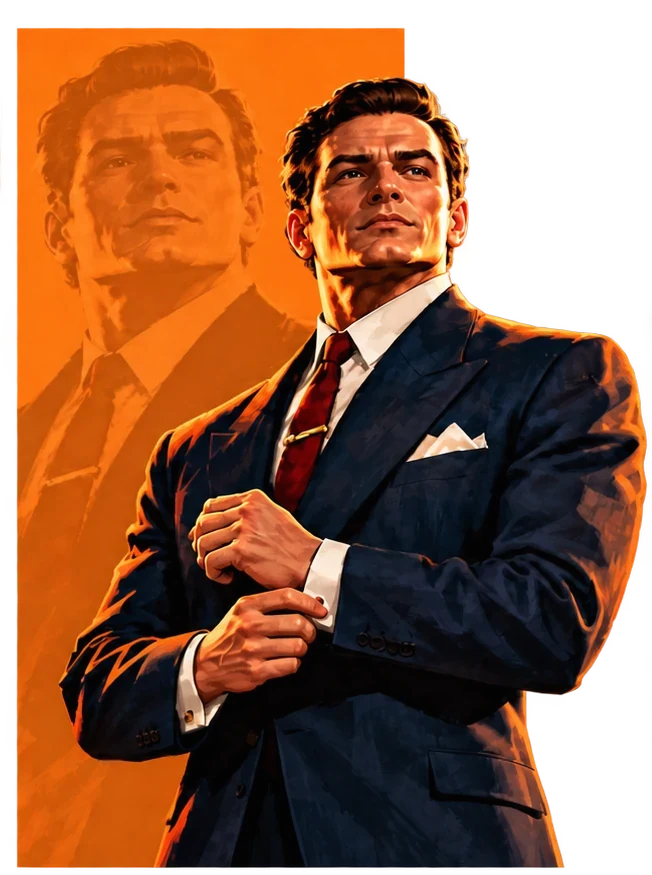
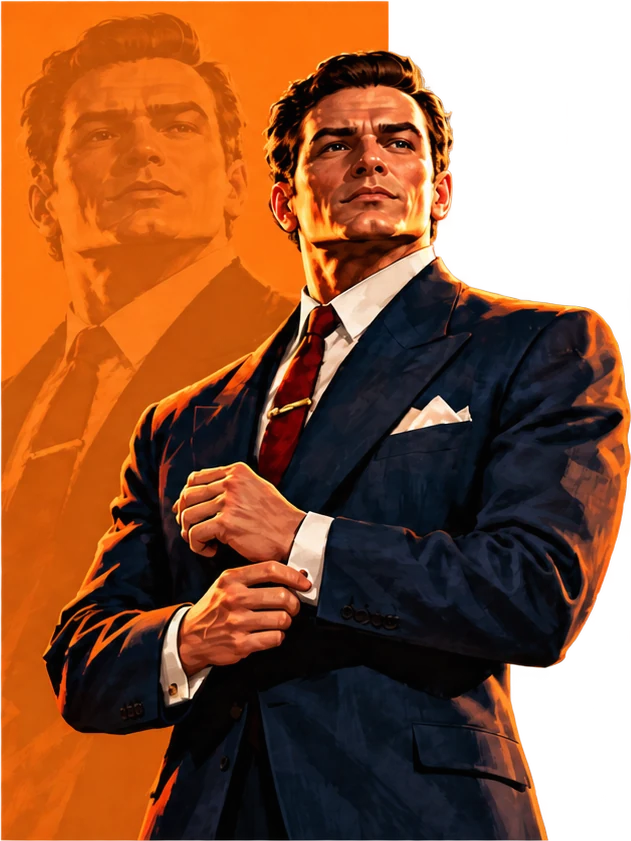
UI-3: whole heroes on the stage floor, centred thumbs, paper phone sheet, readable quests
- Re-sliced hero-anne/james from the owner's transparent cards. Anne's
  elbow is no longer cut off, the UI text is masked out, and both are
  trimmed to the art's true bottom and anchored to the stage floor.
- Thumbs re-cut as squares centred on each face, over the flat colour bar.
- Phones: the Economy sheet (Black Market, Plant, quests) is paper with
  ink tabs, like the desktop drawer, so there is no ink text on dark.
- Quests: ink text and a dark-green progress line on paper (they were
  hardcoded light greys).

diff --git a/src/game/theme-poster-hud.css b/src/game/theme-poster-hud.css
@@ -282,3 +282,47 @@
 :is(#iso-battle-howto, #iso-tutorial) .tut-fig * { color: inherit; }
 :is(#iso-battle-howto, #iso-tutorial) .tut-chain-node { padding: 10px 14px; font-size: 14px !important; }
 :is(#iso-battle-howto, #iso-tutorial) .tut-nav .big-btn { font-size: 16px !important; }
+
+/* ── quests on paper: readable ink, not the old light-on-dark greys ─ */
+.ui-root .aside.right .pane .quest { border-radius: 0; background: transparent; border: 0; border-bottom: 1px solid #111b202c; }
+.ui-root .aside.right .pane .quest .q-who { color: #d1640e; font: 700 13px var(--px-display); letter-spacing: .12em; text-transform: uppercase; }
+.ui-root .aside.right .pane .quest .q-text { color: #182126; font: 500 15px/1.35 var(--px-body); }
+.ui-root .aside.right .pane .quest .q-prog { color: #2f7d4a; font-weight: 700; }
+.ui-root .aside.right .pane .quest .q-reward { color: #182126; }
+.ui-root .aside.right .pane .quest button { border-radius: 0; }
+
+/* ── phones: the Economy sheet is paper too (owner: mobile colours) ── */
+@media (max-width: 760px) {
+  .ui-root #iso-aside-right { background: #f0e6d1 !important; border-top: 4px solid #ef7c17; }
+  .ui-root #iso-aside-right > #iso-trade.panel,
+  .ui-root #iso-aside-right > .plant-card {
+    background: #f0e6d1 !important; border: 0 !important; border-radius: 0; box-shadow: none; color: #182126;
+  }
+  .ui-root #iso-aside-right > .plant-card { border-top: 2px solid #11191d !important; margin: 0; }
+  .ui-root #iso-aside-right .panel-title {
+    color: #d1640e !important; border-color: #111b202c !important; text-shadow: none;
+    font: 700 13px var(--px-display) !important; letter-spacing: .15em !important;
+  }
+  .ui-root #iso-aside-right .panel-title::before { content: none; display: none; }
+  .ui-root #iso-aside-right .tabs { background: #121b20; }
+  .ui-root #iso-aside-right .tab { border-radius: 0; color: #e4d4bc; font: 700 12px var(--px-display) !important; letter-spacing: .06em; text-transform: uppercase; }
+  .ui-root #iso-aside-right .tab.active { background: #efebe0; color: #171f20; }
+  .ui-root #iso-aside-right .pane { background: transparent; color: #182126; }
+}
+.ui-root #iso-aside-right > .plant-card {
+  --txt: #172126; --txt-dim: #3d474a; --txt-mute: #6c665b;
+  --line: #b9a987; --line-hi: #8e7f66; --brass: #e46b0e; --brass-hi: #b94c04;
+  --sa-bone: #172126; --sa-bone-dim: #3d474a; --sa-bone-mute: #6c665b;
+  --sa-panel: #e7dbc2; --sa-panel-2: #ddcfb2; --sa-line: #c7b795; --sa-line-hi: #8e7f66; --sa-ink: #fbf5e8;
+  --c-bone: 23 33 38; --c-ink: 251 245 232;
+  --felt: none; --flat: none; --plate-body: none;
+}
+.ui-root .plant-card .tuning-plate { background: transparent !important; }
+.ui-root .plant-card :is(.tp-city, .tp-retune) { border-radius: 0; }
+.ui-root .plant-card :is(.tp-city, .tp-retune) {
+  background: #fbf5e8 !important; color: #182126 !important;
+  border-top: 1.5px solid #1e2527 !important; border-right: 1.5px solid #1e2527 !important; border-bottom: 1.5px solid #1e2527 !important;
+}
+.ui-root .plant-card :is(.tp-city, .tp-retune) * { color: inherit; }
+.ui-root .plant-card :is(.tp-city, .tp-retune):hover:not(:disabled) { background: #10191e !important; color: #f2e8d4 !important; }
+.ui-root .plant-card .tuning-plate { border-color: #111b2033 !important; }

diff --git a/src/game/theme-poster.css b/src/game/theme-poster.css
@@ -759,3 +759,16 @@
 /* owner: the palette is flat — no gradients on the difficulty cards */
 #iso-skill-prompt .iso-skill-label { background: var(--acc) !important; }
 #iso-skill-prompt .iso-skill-card { background-image: none; }
+
+/* owner (2026-09-27): the heroes are re-sliced whole (Anne's arm intact) and
+   stand on the stage floor. The art carries its own ghost + colour bar. */
+.px-portrait-stage .px-ghost { display: none; }
+.px-portrait-stage .px-hero,
+.px-portrait-stage.anne .px-hero {
+  left: auto; right: 0; bottom: 0; top: auto; width: 100%; height: 100%;
+  object-fit: contain; object-position: right bottom; filter: none;
+}
+/* James is narrow: he fills the height; only the colour bar crops on the left */
+.px-portrait-stage.james .px-hero { width: auto; max-width: none; height: 98%; }
+.start-screen.px .px-portrait img { object-fit: cover; object-position: center center; }
+.px-portrait-stage.anne .px-hero { right: 3%; width: 94%; }
